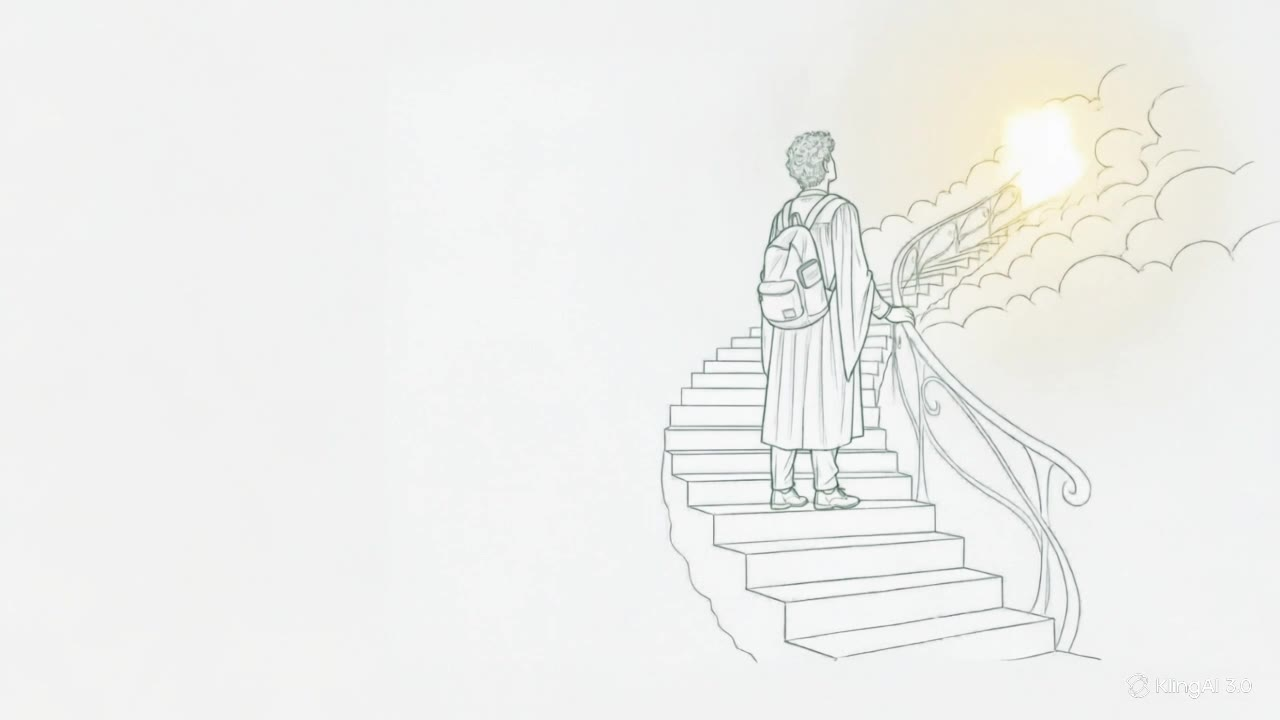
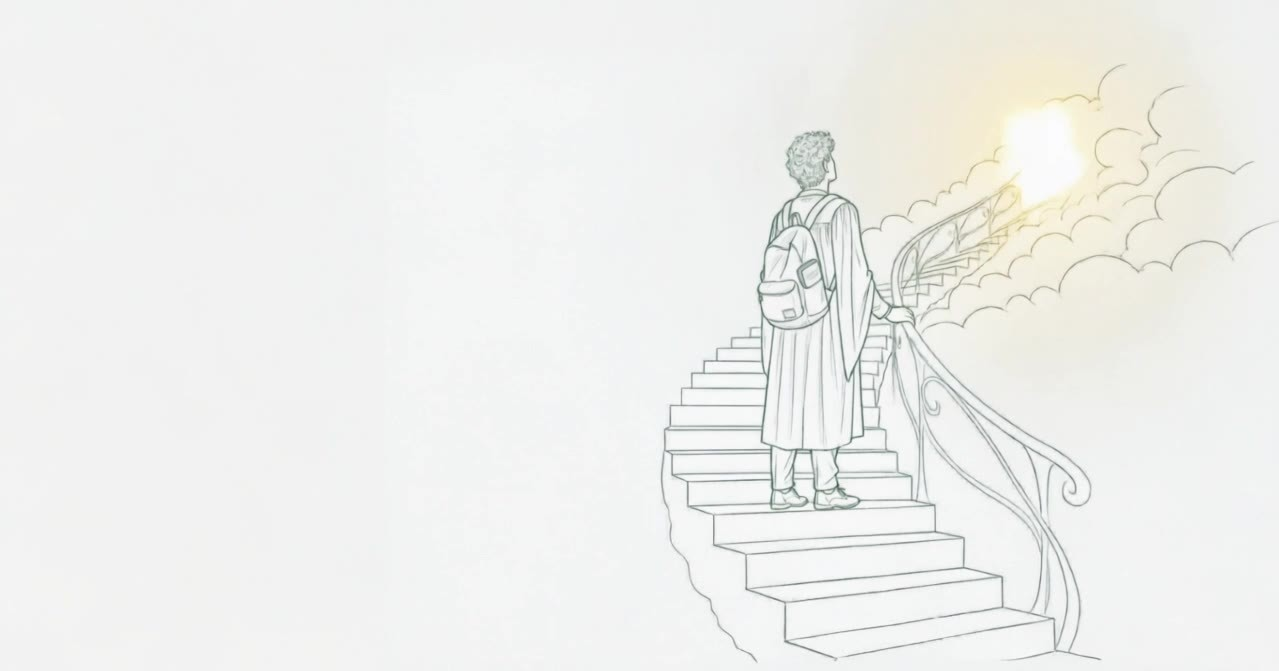
hp

diff --git a/src/App.jsx b/src/App.jsx
@@ -1824,6 +1824,8 @@ export default function KelasNotesters() {
     { bg: ORANGE, dark: ORANGE_DARK },
   ];
 
+  // Tinggi navbar: di HP navbar dua baris (logo+akun, lalu menu), jadi offset 'sticky' harus ikut.
+  const NAV_H = isMobile ? 108 : 56;
   const s = {
     root: { fontFamily: "'AmiriAr', 'Segoe UI', Arial, sans-serif", minHeight: "100vh", background: "#f6f8f7", color: "#1a1a1a" },
     // NAVBAR
@@ -1893,7 +1895,7 @@ export default function KelasNotesters() {
     heroTag: { color: "rgba(255,255,255,0.85)", fontSize: 13, fontWeight: "bold", letterSpacing: 2, marginBottom: 12, textTransform: "uppercase" },
     heroTitle: { color: "white", fontSize: "clamp(36px, 8vw, 60px)", fontWeight: "normal", marginBottom: 20, lineHeight: 1.1, fontFamily: "'Julius Sans One', sans-serif", letterSpacing: 4 },
     heroTitleSub: { color: "rgba(255,255,255,0.85)", fontSize: "clamp(13px, 2vw, 16px)", fontWeight: "bold", marginBottom: 16, letterSpacing: 1 },
-    heroDesc: { color: "rgba(255,255,255,0.9)", fontSize: "clamp(14px, 2.5vw, 16px)", width: "100%", maxWidth: "600", lineHeight: 1.7, textAlign: "center", margin: "0 auto 32px", padding: "0 24px" },
+    heroDesc: { color: "rgba(255,255,255,0.9)", fontSize: "clamp(14px, 2.5vw, 16px)", width: "100%", maxWidth: "600", boxSizing: "border-box", lineHeight: 1.7, textAlign: "center", margin: "0 auto 32px", padding: "0 24px" },
     heroBtn: {
       background: "#1a1a1a",
       color: "white",
@@ -1918,7 +1920,7 @@ export default function KelasNotesters() {
     },
     footerLeft: { fontSize: 13 },
     footerRight: { display: "flex", flexDirection: "column", gap: 6 },
-    footerLink: { color: "rgba(255,255,255,0.85)", fontSize: 13, cursor: "pointer", background: "none", border: "none", fontFamily: "inherit", textAlign: "right" },
+    footerLink: { color: "rgba(255,255,255,0.85)", fontSize: 13, cursor: "pointer", background: "none", border: "none", fontFamily: "inherit", textAlign: isMobile ? "center" : "right", padding: isMobile ? "8px 10px" : 0 },
 
     // EXPLORE
     exploreSection: { padding: "40px 24px", maxWidth: 1000, margin: "0 auto" },
@@ -1947,16 +1949,16 @@ export default function KelasNotesters() {
     courseCardDesc: { fontSize: 12.5, color: "#7a8581", lineHeight: 1.55 },
 
     // COURSE
-    courseLayout: { display: "flex", minHeight: "calc(100vh - 56px)", position: "relative" },
+    courseLayout: { display: "flex", minHeight: `calc(100vh - ${NAV_H}px)`, position: "relative" },
     overlay: { position: "fixed", top: 0, left: 0, right: 0, bottom: 0, background: "rgba(0,0,0,0.35)", zIndex: 250 },
     sidebar: {
       width: 240,
       background: "white",
       borderRight: "1px solid #e0e0e0",
       position: "fixed",
-      top: 56,
+      top: NAV_H,
       left: 0,
-      height: "calc(100vh - 56px)",
+      height: `calc(100vh - ${NAV_H}px)`,
       zIndex: 300,
       transform: sidebarOpen ? "translateX(0)" : "translateX(-100%)",
       transition: "transform 0.3s ease",
@@ -2049,7 +2051,7 @@ export default function KelasNotesters() {
     card: { background: "white", border: "1px solid #e8eeeb", borderRadius: 18, padding: "16px 18px", marginBottom: 14, boxShadow: "0 1px 2px rgba(20,40,30,0.04), 0 8px 24px rgba(20,40,30,0.05)" },
 
     // AUTH (Login/Register)
-    authPage: { minHeight: "calc(100vh - 56px)", display: "flex", alignItems: "center", justifyContent: "center", padding: "36px 18px", background: "radial-gradient(900px 420px at 50% -10%, #e4efe9 0%, rgba(228,239,233,0) 70%), #f6f9f7" },
+    authPage: { minHeight: `calc(100vh - ${NAV_H}px)`, display: "flex", alignItems: isMobile ? "flex-start" : "center", justifyContent: "center", padding: isMobile ? "24px 16px 40px" : "36px 18px", background: "radial-gradient(900px 420px at 50% -10%, #e4efe9 0%, rgba(228,239,233,0) 70%), #f6f9f7" },
     authCard: { width: "100%", maxWidth: 420, background: "white", borderRadius: 24, padding: "34px 30px 28px", border: "1px solid #e8eeeb", boxShadow: "0 1px 2px rgba(20,40,30,0.04), 0 16px 40px rgba(20,40,30,0.07)", boxSizing: "border-box" },
     authTitle: { fontSize: 22, fontWeight: 800, color: "#1a2421", textAlign: "center", marginBottom: 6, letterSpacing: "-0.2px" },
     authSubtitle: { fontSize: 13.5, color: "#7a8782", textAlign: "center", marginBottom: 22, lineHeight: 1.55 },
@@ -2091,7 +2093,7 @@ export default function KelasNotesters() {
     bagianSunBubbleClose: { background: "#f1f5f3", color: "#5b6862", border: "none", borderRadius: 9, padding: "8px 11px", fontSize: 12, cursor: "pointer", display: "flex", alignItems: "center", justifyContent: "center", marginLeft: "auto" },
 
     // AMMIYAH — LEARNING PATH (units + levels)
-    unitBannerWrap: { position: "sticky", top: 56, zIndex: 90, padding: "14px 20px 8px", background: "linear-gradient(#fff 60%, rgba(255,255,255,0))" },
+    unitBannerWrap: { position: "sticky", top: NAV_H, zIndex: 90, padding: "14px 20px 8px", background: "linear-gradient(#fff 60%, rgba(255,255,255,0))" },
     unitBanner: { maxWidth: 460, margin: "0 auto", borderRadius: 16, padding: "16px 18px", display: "flex", alignItems: "center", gap: 14, boxShadow: "0 6px 14px rgba(0,0,0,0.15)" },
     unitBannerClose: { background: "none", border: "none", color: "white", fontSize: 20, cursor: "pointer", lineHeight: 1 },
     unitBannerText: { color: "white", flex: 1 },
@@ -2123,7 +2125,7 @@ export default function KelasNotesters() {
     lessonClose: { background: "none", border: "none", color: "#999", fontSize: 22, cursor: "pointer", lineHeight: 1 },
     lessonProgressTrack: { flex: 1, height: 8, borderRadius: 20, background: "#e9eeec", overflow: "hidden" },
     lessonProgressFill: { height: "100%", borderRadius: 20, background: `linear-gradient(90deg, ${GREEN}, ${GREEN_DARK})`, transition: "width 0.3s ease" },
-    lessonBody: { flex: 1, padding: "20px 20px 140px", maxWidth: 560, margin: "0 auto", width: "100%" },
+    lessonBody: { flex: 1, padding: "20px 20px 140px", maxWidth: 560, margin: "0 auto", width: "100%", boxSizing: "border-box" },
     lessonQuestion: { fontSize: 20, fontWeight: "bold", color: "#1a1a1a", marginBottom: 22 },
     lessonPromptRow: { display: "flex", alignItems: "flex-start", gap: 14, marginBottom: 30 },
     lessonAvatarWrap: { flexShrink: 0 },
@@ -2150,7 +2152,7 @@ export default function KelasNotesters() {
     // Ditandai pas kotak lagi "dipilih" buat ditukar posisinya (lihat handlePlacedTileClick).
     lessonWordTileSelected: { border: "2px solid #F5B700", background: "#FFF6DD", color: "#a97b00", boxShadow: "0 0 0 2px rgba(245,183,0,0.25)" },
     lessonTextInput: { width: "100%", border: "1.5px solid #e3e9e6", borderRadius: 14, fontSize: 18, padding: "12px 14px", outline: "none", marginBottom: 20, boxSizing: "border-box" },
-    lessonBottomBar: { position: "sticky", bottom: 0, left: 0, right: 0, borderTop: "1px solid #e8eeeb", padding: "16px 20px 20px", background: "white" },
+    lessonBottomBar: { position: "sticky", bottom: 0, left: 0, right: 0, borderTop: "1px solid #e8eeeb", padding: "16px 20px calc(20px + env(safe-area-inset-bottom, 0px))", background: "white" },
     lessonBottomInner: { maxWidth: 560, margin: "0 auto" },
     lessonFeedback: { display: "flex", alignItems: "center", gap: 10, marginBottom: 12, fontWeight: "bold", fontSize: 15 },
     lessonBtnDisabled: { background: "#eceff0", color: "#a3adaa", cursor: "default", boxShadow: "none" },
@@ -2174,74 +2176,98 @@ export default function KelasNotesters() {
     matchCardDone: { borderColor: "#6bb58a", background: "#ecf7f0", opacity: 0.85, cursor: "default" },
     // MODAL
     modal: { position: "fixed", top: 0, left: 0, right: 0, bottom: 0, background: "rgba(0,0,0,0.5)", display: "flex", alignItems: "center", justifyContent: "center", zIndex: 500, padding: 16 },
-    modalBox: { background: "white", borderRadius: 16, padding: 28, width: "100%", maxWidth: 380 },
+    modalBox: { background: "white", borderRadius: 16, padding: 28, width: "100%", maxWidth: 380, boxSizing: "border-box", maxHeight: "92vh", overflowY: "auto" },
     modalTitle: { fontSize: 18, fontWeight: "bold", color: "#1a1a1a", marginBottom: 14 },
   };
 
-  const renderNavbar = () => (
-    <div style={s.navbar}>
-      <a href="?page=home" onClick={navLinkClick(goHome)} style={{ cursor: "pointer", textDecoration: "none" }}>
-      <div style={{ display: "flex", alignItems: "flex-end", gap: 7 }}><img src="/logo-learningspace-white.png" alt="LearningSpace by Kyo" style={{ height: isMobile ? 28 : 38, width: "auto", display: "block" }} /><span style={{ fontSize: 11, color: "rgba(255,255,255,0.8)", paddingBottom: 3, letterSpacing: 0.3 }}>by Kyo</span></div>
-    </a>  
-    <div style={{ position: "relative", overflow: "hidden", flex: isMobile ? 1 : "none", minWidth: 0 }}>
-      <div style={s.navLinks} className="nav-links-scroll">
-        {/* eslint-disable-next-line jsx-a11y/anchor-is-valid */}
-        {currentUser ? (
-          <a
-            href="?page=profile"
-            onClick={navLinkClick(() => { setPage("profile"); window.scrollTo({ top: 0, behavior: "auto" }); })}
-            aria-label={lx("Profil", "Profile")}
-            style={{ ...s.navLink, display: "inline-flex", alignItems: "center", gap: 8, textDecoration: "none", padding: "4px 12px 4px 4px", borderRadius: 999,
-              background: page === "profile" ? "rgba(255,255,255,0.28)" : "rgba(255,255,255,0.16)" }}
-          >
-            {currentUser.avatarUrl ? (
-              <img src={currentUser.avatarUrl} alt="" referrerPolicy="no-referrer" style={{ width: 26, height: 26, borderRadius: "50%", objectFit: "cover" }} />
-            ) : (
-              <span style={{ width: 26, height: 26, borderRadius: "50%", background: "white", color: GREEN_DARK, fontSize: 13, fontWeight: 800, display: "inline-flex", alignItems: "center", justifyContent: "center" }}>
-                {(currentUser.name || "?").trim().charAt(0).toUpperCase()}
-              </span>
-            )}
-            <span style={{ maxWidth: isMobile ? 70 : 120, overflow: "hidden", textOverflow: "ellipsis", whiteSpace: "nowrap" }}>{(currentUser.name || "").split(" ")[0]}</span>
-          </a>
+  const renderNavbar = () => {
+    const authItem = currentUser ? (
+      <a
+        href="?page=profile"
+        onClick={navLinkClick(() => { setPage("profile"); window.scrollTo({ top: 0, behavior: "auto" }); })}
+        aria-label={lx("Profil", "Profile")}
+        style={{ ...s.navLink, display: "inline-flex", alignItems: "center", gap: 8, textDecoration: "none", padding: "4px 12px 4px 4px", borderRadius: 999,
+          background: page === "profile" ? "rgba(255,255,255,0.28)" : "rgba(255,255,255,0.16)" }}
+      >
+        {currentUser.avatarUrl ? (
+          <img src={currentUser.avatarUrl} alt="" referrerPolicy="no-referrer" style={{ width: 28, height: 28, borderRadius: "50%", objectFit: "cover" }} />
         ) : (
-          <a
-            href="?page=login"
-            onClick={navLinkClick(() => { setAuthRedirectTarget("ammiyahBagian"); setAuthMode("login"); setPage("login"); })}
-            style={{ ...(page === "login" ? s.navLinkActive : s.navLink), textDecoration: "none", display: "inline-block" }}
-          >
-            Login
-          </a>
+          <span style={{ width: 28, height: 28, borderRadius: "50%", background: "white", color: GREEN_DARK, fontSize: 13, fontWeight: 800, display: "inline-flex", alignItems: "center", justifyContent: "center" }}>
+            {(currentUser.name || "?").trim().charAt(0).toUpperCase()}
+          </span>
         )}
-        <a href="?page=home" onClick={navLinkClick(goHome)} style={{ ...(page === "home" ? s.navLinkActive : s.navLink), textDecoration: "none", display: "inline-block" }}>Home</a>
-        <a href="?page=explore" onClick={navLinkClick(goExplore)} style={{ ...(page === "explore" || page === "course" ? s.navLinkActive : s.navLink), textDecoration: "none", display: "inline-block" }}>Explore</a>
-        <a href="?page=subject" onClick={featureLinkClick(goSubject, "subject")} style={{ ...(page === "subject" ? s.navLinkActive : s.navLink), textDecoration: "none", display: "inline-flex", alignItems: "center", gap: 6 }}>
-          <svg width="16" height="16" viewBox="0 0 24 24" fill="none" stroke="currentColor" strokeWidth="1.8" strokeLinecap="round" strokeLinejoin="round" aria-hidden="true"><path d="M2 9l10-5 10 5-10 5z" /><path d="M6 11v5c0 1.5 3 3 6 3s6-1.5 6-3v-5" /></svg> Subject Language
-        </a>
-        <a href="?page=ammiyah" onClick={featureLinkClick(goAmmiyah, "ammiyah")} style={{ ...(page.startsWith("ammiyah") ? s.navLinkActive : s.navLink), textDecoration: "none", display: "inline-flex", alignItems: "center", gap: 6 }}>
-          <JordanFlag size={16} /> Levantine
-        </a>
-        <button
-          className="nav-donate"
-          style={{ ...s.navLink, display: "inline-flex", alignItems: "center", visibility: "visible", opacity: 1 }}
-          onClick={() => setShowDonate(true)}
-        >
-          Donate
-        </button>
-        <a href="?page=contact" onClick={navLinkClick(goContact)} style={{ ...(page === "contact" ? s.navLinkActive : s.navLink), textDecoration: "none", display: "inline-block" }}>Contact Us</a>
+        <span style={{ maxWidth: isMobile ? 90 : 120, overflow: "hidden", textOverflow: "ellipsis", whiteSpace: "nowrap" }}>{(currentUser.name || "").split(" ")[0]}</span>
+      </a>
+    ) : (
+      <a
+        href="?page=login"
+        onClick={navLinkClick(() => { setAuthRedirectTarget("ammiyahBagian"); setAuthMode("login"); setPage("login"); })}
+        style={{ ...(page === "login" ? s.navLinkActive : s.navLink), textDecoration: "none", display: "inline-block",
+          ...(isMobile && page !== "login" ? { background: "rgba(255,255,255,0.2)", borderRadius: 999, padding: "7px 18px", fontWeight: 700 } : {}) }}
+      >
+        Login
+      </a>
+    );
+
+    const logo = (
+      <a href="?page=home" onClick={navLinkClick(goHome)} style={{ cursor: "pointer", textDecoration: "none", flexShrink: 0 }}>
+        <div style={{ display: "flex", alignItems: "flex-end", gap: 7 }}><img src="/logo-learningspace-white.png" alt="LearningSpace by Kyo" style={{ height: isMobile ? 30 : 38, width: "auto", display: "block" }} /><span style={{ fontSize: 11, color: "rgba(255,255,255,0.8)", paddingBottom: 3, letterSpacing: 0.3 }}>by Kyo</span></div>
+      </a>
+    );
+
+    // Gaya tautan: di HP berbentuk "pil" supaya mudah ditekan jari dan jelas mana yang aktif.
+    const lk = (active) => (isMobile
+      ? { ...(active ? s.navLinkActive : s.navLink), padding: "6px 14px", borderRadius: 999, fontSize: 13.5, minHeight: 34,
+          background: active ? "white" : "rgba(255,255,255,0.14)", textDecoration: "none", display: "inline-flex", alignItems: "center", gap: 6 }
+      : { ...(active ? s.navLinkActive : s.navLink), textDecoration: "none", display: "inline-flex", alignItems: "center", gap: 6 });
+    const links = [
+      <a key="home" href="?page=home" onClick={navLinkClick(goHome)} style={lk(page === "home")}>Home</a>,
+      <a key="explore" href="?page=explore" onClick={navLinkClick(goExplore)} style={lk(page === "explore" || page === "course")}>Explore</a>,
+      <a key="subject" href="?page=subject" onClick={featureLinkClick(goSubject, "subject")} style={lk(page === "subject")}>
+        <svg width="16" height="16" viewBox="0 0 24 24" fill="none" stroke="currentColor" strokeWidth="1.8" strokeLinecap="round" strokeLinejoin="round" aria-hidden="true"><path d="M2 9l10-5 10 5-10 5z" /><path d="M6 11v5c0 1.5 3 3 6 3s6-1.5 6-3v-5" /></svg> Subject Language
+      </a>,
+      <a key="levantine" href="?page=ammiyah" onClick={featureLinkClick(goAmmiyah, "ammiyah")} style={lk(page.startsWith("ammiyah"))}>
+        <JordanFlag size={16} /> Levantine
+      </a>,
+      <button key="donate" className="nav-donate" style={{ ...lk(false), visibility: "visible", opacity: 1, border: "none" }} onClick={() => setShowDonate(true)}>Donate</button>,
+      <a key="contact" href="?page=contact" onClick={navLinkClick(goContact)} style={lk(page === "contact")}>Contact Us</a>,
+    ];
+
+    if (isMobile) {
+      return (
+        <div style={{ ...s.navbar, height: "auto", flexDirection: "column", alignItems: "stretch", justifyContent: "flex-start", padding: 0, boxShadow: "0 2px 10px rgba(30,60,50,0.12)" }}>
+          <div style={{ display: "flex", alignItems: "center", justifyContent: "space-between", gap: 10, padding: "8px 14px 6px 16px" }}>
+            {logo}
+            {authItem}
+          </div>
+          <div style={{ position: "relative" }}>
+            <div className="nav-links-scroll" style={{ display: "flex", gap: 8, overflowX: "auto", WebkitOverflowScrolling: "touch", padding: "2px 16px 10px", scrollbarWidth: "none" }}>
+              {links}
+            </div>
+            <div style={{ position: "absolute", top: 0, right: 0, bottom: 0, width: 28, pointerEvents: "none", background: `linear-gradient(to right, transparent, ${GREEN})` }} />
+          </div>
+        </div>
+      );
+    }
+    return (
+      <div style={s.navbar}>
+        {logo}
+        <div style={{ position: "relative", overflow: "hidden", flex: "none", minWidth: 0 }}>
+          <div style={s.navLinks} className="nav-links-scroll">
+            {authItem}
+            {links}
+          </div>
+        </div>
       </div>
-      {isMobile && (
-        <div style={{ position: "absolute", top: 0, right: 0, bottom: 0, width: 24, pointerEvents: "none", background: `linear-gradient(to right, transparent, ${GREEN})` }} />
-      )}
-      </div>
-    </div>
-  );
+    );
+  };
 
   const renderFooter = () => (
     <div style={{ background: GREEN, color: "white" }}>
-      <div style={{ ...s.footer, background: "transparent", alignItems: "flex-start" }}>
-        <div style={{ ...s.footerLeft, flex: "1 1 200px" }}>
+      <div style={{ ...s.footer, background: "transparent", alignItems: isMobile ? "center" : "flex-start", ...(isMobile ? { flexDirection: "column", padding: "28px 20px 22px", gap: 22, textAlign: "center" } : {}) }}>
+        <div style={{ ...s.footerLeft, flex: isMobile ? "0 0 auto" : "1 1 200px" }}>
           <div style={{ fontSize: 11, color: "rgba(255,255,255,0.7)", marginBottom: 8 }}>Our social Media</div>
-          <div style={{ display: "flex", gap: 8, flexWrap: "wrap" }}>
+          <div style={{ display: "flex", gap: 8, flexWrap: "wrap", justifyContent: isMobile ? "center" : "flex-start" }}>
             <a className="ls-press" href="https://youtube.com/@noteskey?si=8m9rWk59J66TGPAa" target="_blank" rel="noopener noreferrer"
               style={{ display: "flex", alignItems: "center", gap: 5, background: "rgba(255,255,255,0.2)", padding: "5px 12px", borderRadius: 6, color: "white", textDecoration: "none", fontSize: 13 }}>
               <YouTubeLogo size={15} /> YouTube
@@ -2252,13 +2278,13 @@ export default function KelasNotesters() {
             </a>
           </div>
         </div>
-        <div style={{ flex: "1 1 200px", display: "flex", justifyContent: "center", alignItems: "flex-start" }}>
+        <div style={{ flex: isMobile ? "0 0 auto" : "1 1 200px", display: "flex", justifyContent: "center", alignItems: "flex-start" }}>
           <a href="?page=home" onClick={navLinkClick(goHome)} aria-label="LearningSpace" style={{ display: "flex" }}>
             <img src="/logo-learningspace-white.png" alt="LearningSpace" style={{ height: 40, width: "auto", display: "block" }} />
           </a>
         </div>
-        <div style={{ flex: "1 1 200px", display: "flex", justifyContent: "flex-end" }}>
-      <div style={s.footerRight}>
+        <div style={{ flex: isMobile ? "0 0 auto" : "1 1 200px", display: "flex", justifyContent: isMobile ? "center" : "flex-end" }}>
+      <div style={isMobile ? { display: "flex", flexWrap: "wrap", justifyContent: "center", gap: "4px 6px" } : s.footerRight}>
         <a href="?page=home" onClick={navLinkClick(goHome)} style={{ ...s.footerLink, textDecoration: "none" }}>Home</a>
         <a href="?page=explore" onClick={navLinkClick(goExplore)} style={{ ...s.footerLink, textDecoration: "none" }}>Explore</a>
         <a href="?page=subject" onClick={featureLinkClick(goSubject, "subject")} style={{ ...s.footerLink, textDecoration: "none" }}>Subject Language</a>
@@ -2268,7 +2294,7 @@ export default function KelasNotesters() {
       </div>
         </div>
       </div>
-      <div style={{ borderTop: "1px solid rgba(255,255,255,0.18)", padding: "14px 40px", textAlign: "center", fontSize: 12.5, color: "rgba(255,255,255,0.8)" }}>
+      <div style={{ borderTop: "1px solid rgba(255,255,255,0.18)", padding: isMobile ? "14px 20px" : "14px 40px", textAlign: "center", fontSize: 12.5, color: "rgba(255,255,255,0.8)" }}>
         © 2026 LearningSpace. All rights reserved.
       </div>
     </div>
@@ -5373,7 +5399,7 @@ function renderNodeIcon(type, status) {
     );
     return (
       <div style={{ minHeight: "100vh", display: "flex", alignItems: "center", justifyContent: "center", padding: 20, boxSizing: "border-box" }}>
-        <div style={{ background: "white", border: "1px solid #e8eeeb", borderRadius: 22, width: "100%", maxWidth: 400, textAlign: "center", padding: "30px 24px 26px", boxShadow: "0 1px 2px rgba(20,40,30,0.04), 0 12px 32px rgba(20,40,30,0.06)" }}>
+        <div style={{ background: "white", border: "1px solid #e8eeeb", borderRadius: 22, width: "100%", maxWidth: 400, boxSizing: "border-box", textAlign: "center", padding: "30px 24px 26px", boxShadow: "0 1px 2px rgba(20,40,30,0.04), 0 12px 32px rgba(20,40,30,0.06)" }}>
           <Ring value={acc} C={{ GREEN_DARK }} />
           <div style={{ marginTop: 10 }}><Celebrate acc={acc} /></div>
           <div className="ls-enter" style={{ fontSize: 22, fontWeight: 800, color: "#1a2421", marginTop: 8 }}>{lx("Lesson selesai", "Lesson complete")}</div>
@@ -5554,13 +5580,21 @@ function renderNodeIcon(type, status) {
       @media (prefers-reduced-motion: reduce) { .path-halo, .path-mascot { animation: none; } .path-node:not(:disabled):hover { transform: none; } }
       .auth-input:focus { border-color: #7BAE9B !important; background: #fff !important; box-shadow: 0 0 0 3px rgba(123,174,155,0.22); }
       .nav-links-scroll { scrollbar-width: thin; scrollbar-color: rgba(255,255,255,0.5) transparent; }
+      html { -webkit-text-size-adjust: 100%; }
+      button, a, [role="button"] { -webkit-tap-highlight-color: transparent; touch-action: manipulation; }
+      @media (max-width: 640px) {
+        /* 16px mencegah iOS memperbesar halaman otomatis saat kolom isian difokus */
+        input, textarea, select { font-size: 16px !important; }
+        .nav-links-scroll::-webkit-scrollbar { display: none; }
+        img, video { max-width: 100%; }
+      }
     `}</style>
     <div
       onClickCapture={(e) => { if (lessonLocked) { e.preventDefault(); e.stopPropagation(); flashLockToast(); } }}
       style={lessonLocked ? { opacity: 0.55, cursor: "not-allowed", filter: "grayscale(0.2)" } : undefined}
       aria-disabled={lessonLocked || undefined}
     >
-      {renderNavbar()}
+      {!(isMobile && lessonLocked) && renderNavbar()}
     </div>
     {lockToast && (
       <div style={{ position: "fixed", bottom: 120, left: 0, right: 0, zIndex: 3000, display: "flex", justifyContent: "center", padding: "0 16px", pointerEvents: "none" }}>
@@ -5570,7 +5604,7 @@ function renderNodeIcon(type, status) {
       </div>
     )}
     {featureLoading && (
-      <div style={{ position: "fixed", top: 56, left: 0, right: 0, bottom: 0, zIndex: 90, background: "#f6f8f7", display: "flex", flexDirection: "column", alignItems: "center", justifyContent: "center", gap: 14, textAlign: "center", padding: 24 }}>
+      <div style={{ position: "fixed", top: NAV_H, left: 0, right: 0, bottom: 0, zIndex: 90, background: "#f6f8f7", display: "flex", flexDirection: "column", alignItems: "center", justifyContent: "center", gap: 14, textAlign: "center", padding: 24 }}>
         <style>{"@keyframes featSpin{to{transform:rotate(360deg)}}"}</style>
         <div style={{ width: 44, height: 44, borderRadius: "50%", border: "3px solid #e1ece7", borderTopColor: GREEN_DARK, animation: "featSpin .8s linear infinite" }} />
         <div>

diff --git a/src/SubjectLanguage.jsx b/src/SubjectLanguage.jsx
@@ -1355,7 +1355,7 @@ export default function SubjectLanguage({
     );
     return (
       <div style={{ minHeight: "100vh", display: "flex", alignItems: "center", justifyContent: "center", padding: 20, boxSizing: "border-box" }}>
-        <div style={{ ...card, width: "100%", maxWidth: 400, textAlign: "center", padding: "34px 24px 26px", marginBottom: 0 }}>
+        <div style={{ ...card, width: "100%", maxWidth: 400, boxSizing: "border-box", textAlign: "center", padding: "34px 24px 26px", marginBottom: 0 }}>
           <Ring value={acc} C={C} />
           <div style={{ marginTop: 10 }}><Celebrate acc={acc} /></div>
           <div className="ls-enter" style={{ fontSize: 22, fontWeight: 800, color: "#1a2421", marginTop: 8 }}>{title}</div>
